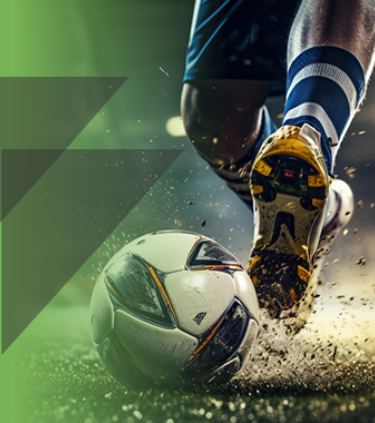
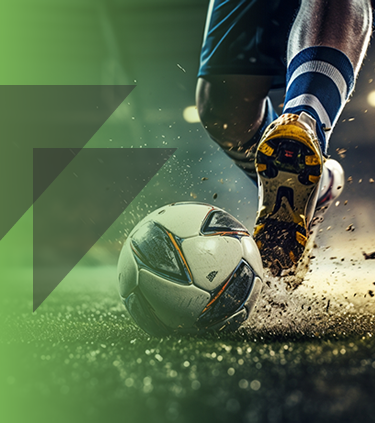
Update home page, carousel images and buttons shadow.-

diff --git a/src/components/homeComponents/Carrousel.jsx b/src/components/homeComponents/Carrousel.jsx
@@ -8,15 +8,24 @@ function Carrousel() {
 	const slides = [
 		{
 			image: './/public/images/banner0.png',
-			caption: 'Simplifica la gestion deportiva con SportPlay',
+			caption: 	`Simplifica
+						la gestion
+						deportiva con
+						SportPlay`,
 		},
 		{
 			image: './/public/images/banner1.png',
-			caption: 'Crea torneos para todos o solo amigos',
+			caption: 	`Inscribete
+						y juega.
+						La cancha
+						te espera`,
 		},
 		{
-			image: './/public/images/banner4.png',
-			caption: 'Invita a tus jugadores o rivales de juego',
+			image: './/public/images/banner2.png',
+			caption: 	`Desafia a
+						tus Amigos.
+						La Competencia
+						está aquí.`,
 		},
 	];
 
@@ -42,7 +51,7 @@ function Carrousel() {
 								alt={`Slide ${index + 1}`}
 								className='w-full h-auto'
 							/>
-							<div className='absolute bottom-32 left-10 transform -translate-x-4 text-left text-4xl drop-shadow-[3px_3px_2px_rgba(0,0,0,1)] flex flex-col'>
+							<div className='whitespace-pre-line absolute top-12 left-10 transform -translate-x-4 text-left text-3xl drop-shadow-[3px_3px_2px_rgba(0,0,0,1)] flex flex-col'>
 								{slide.caption}
 							</div>
 						</div>

diff --git a/src/components/homeComponents/Buttons.jsx b/src/components/homeComponents/Buttons.jsx
@@ -6,16 +6,16 @@ const Buttons = () => {
 	};
 
 	return (
-		<div className='absolute bottom-6 left-14 transform -translate-x-1/4 flex flex-col space-y-4'>
+		<div className='absolute bottom-12 left-14 px-2 transform -translate-x-1/4 flex flex-col space-y-8'>
 			<button
 				onClick={() => openLinkInNewTab('https://www.google.com')}
-				className='px-4 py-1 rounded-2xl  font-SourceSansPro text-base-100 bg-accent hover:bg-success transition duration-300 ease-in-out text-white'
+				className='px-6 py-2 rounded-2xl drop-shadow-[3px_3px_2px_rgba(0,0,0,0.5)] font-SourceSansPro text-primary bg-accent hover:bg-success transition duration-300 ease-in-out'
 			>
 				Registrarse
 			</button>
 			<button
 				onClick={() => openLinkInNewTab('https://www.ifood.com.br/')}
-				className='px-4 py-1 rounded-2xl font-SourceSansPro text-base-100 bg-primary hover:bg-success transition duration-300 ease-in-out text-white'
+				className='px-6 py-2 rounded-2xl drop-shadow-[3px_3px_2px_rgba(0,0,0,0.5)] font-SourceSansPro text-base-100 bg-secondary hover:bg-success transition duration-300 ease-in-out'
 			>
 				Crear Torneo
 			</button>

diff --git a/src/index.css b/src/index.css
@@ -1,5 +1,5 @@
 @import url('https://fonts.googleapis.com/css2?family=Roboto:wght@400;500;700&display=swap');
-@import url('https://fonts.googleapis.com/css2?family=Source+Sans+Pro:wght@300;400;600&display=swap');
+@import url('https://fonts.googleapis.com/css2?family=Source+Sans+Pro:wght@300;400;600;&display=swap');
 
 
 @tailwind base;

diff --git a/src/components/homeComponents/Slider.jsx b/src/components/homeComponents/Slider.jsx
@@ -1,0 +1,15 @@
+import React, {useState, useEffect} from 'react'
+
+export const Slider = () => {
+  return (
+
+    <>
+    
+    <h3> SliderSliderSliderSliderSliderSliderSlider</h3>
+
+    </>
+    
+  )
+}
+
+export default Slider;
